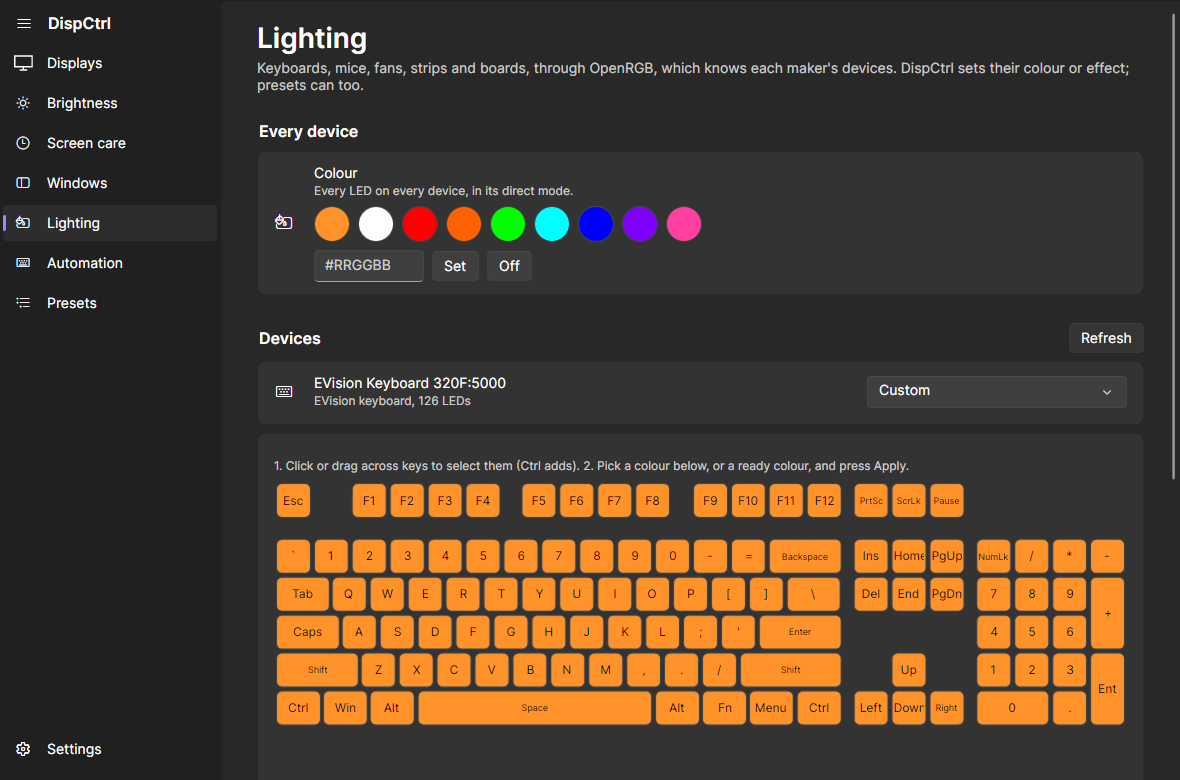
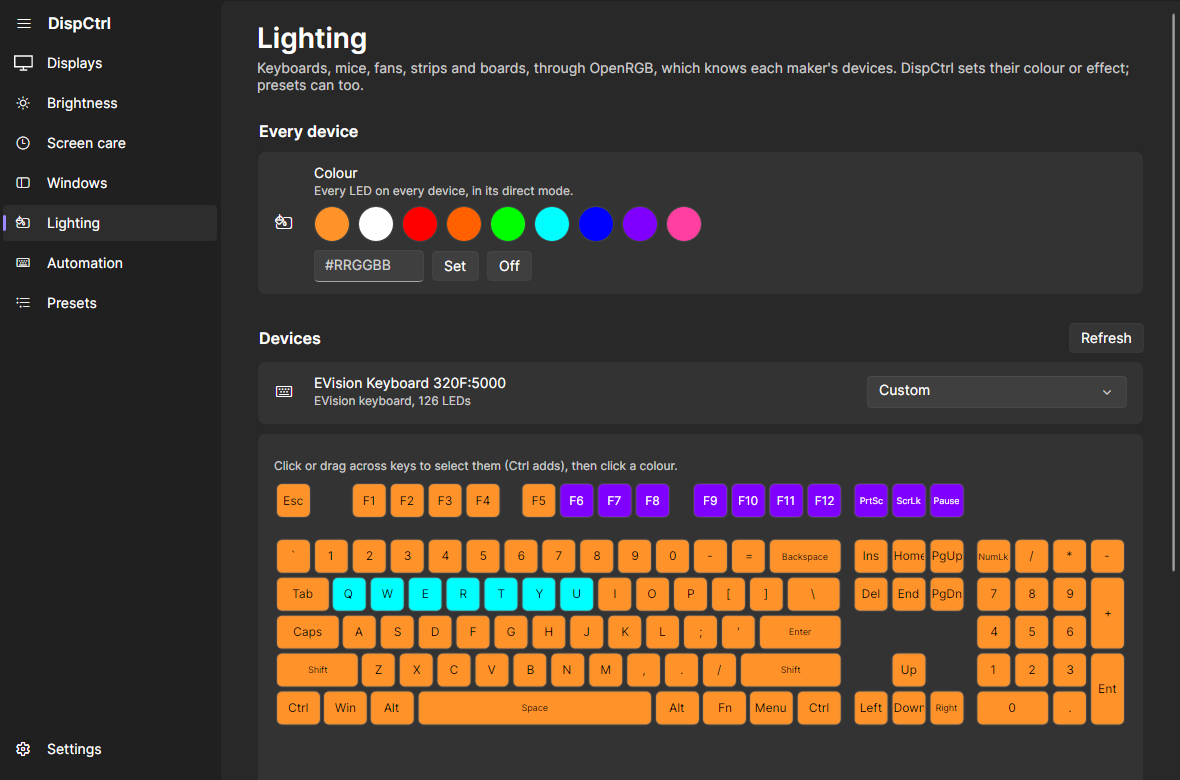
Keyboard editor: fewer buttons to find. Choosing a colour now applies it to the selected keys at once, so the Apply button and the large colour-picker button are gone; the custom picker sits beside the ready colours. Whole row is dropped, the Gradient, Rainbow and Rows buttons become one list, and s

Changed region(s): [[0.2136, 0.5846, 0.8237, 0.6769], [0.2746, 0.7385, 0.5186, 0.8], [0.9763, 0.6154, 1.0, 0.7077]]

diff --git a/src/DispCtrl.Linux.Gui/Views/Pages/KeyboardEditor.cs b/src/DispCtrl.Linux.Gui/Views/Pages/KeyboardEditor.cs
@@ -44,7 +44,7 @@ public sealed class KeyboardEditor : StackPanel
     private static readonly IBrush Selected = Brushes.DodgerBlue;
     private static readonly IBrush Unselected = new SolidColorBrush(Color.FromArgb(60, 128, 128, 128));
     private static readonly Task<bool> AnimationsOn = Task.Run(DesktopAnimates);
-    private bool _dragging, _sending, _animate;
+    private bool _dragging, _sending, _animate, _settingPicker;
     private int _hover = -1;
     private int _lastHit = -1;
 
@@ -94,9 +94,7 @@ public sealed class KeyboardEditor : StackPanel
         // Scaled to the card's width, never scrolled: a clipped numpad hid keys.
         Children.Add(new Viewbox { Stretch = Stretch.Uniform, StretchDirection = StretchDirection.DownOnly, HorizontalAlignment = HorizontalAlignment.Left, Child = _canvas });
 
-        AutomationProperties.SetName(_picker, "Key colour");
-        var apply = Button("Apply", "Colour the selected keys", async () => await Send(_selected.ToDictionary(l => l, _ => Picked())));
-        apply.Classes.Add("accent");
+        AutomationProperties.SetName(_picker, "Custom colour");
         var swatches = new WrapPanel { VerticalAlignment = VerticalAlignment.Center };
         foreach (var (name, hex) in new[] { ("White", "#FFFFFF"), ("Red", "#FF0000"), ("Orange", "#FF6000"), ("Yellow", "#FFE000"), ("Green", "#00FF00"),
                      ("Cyan", "#00FFFF"), ("Blue", "#0000FF"), ("Purple", "#8000FF"), ("Pink", "#FF40A0"), ("Off", "#000000") })
@@ -110,45 +108,53 @@ public sealed class KeyboardEditor : StackPanel
             AutomationProperties.SetName(dot, $"Colour selected keys {name}");
             dot.Click += async (_, _) =>
             {
+                _settingPicker = true;
                 _picker.Color = Color.Parse(hex);
+                _settingPicker = false;
                 await Send(_selected.ToDictionary(l => l, _ => Picked()));
             };
             swatches.Children.Add(dot);
         }
+        // The custom colour applies as it is chosen, so there is no Apply button to find.
+        _picker.ColorChanged += async (_, _) =>
+        {
+            if (!_settingPicker && _selected.Count > 0) await Send(_selected.ToDictionary(l => l, _ => Picked()));
+        };
+        swatches.Children.Add(_picker);
         var hint = new TextBlock
         {
             Classes = { "caption" }, TextWrapping = TextWrapping.Wrap,
-            Text = "1. Click or drag across keys to select them (Ctrl adds). 2. Pick a colour below, or a ready colour, and press Apply.",
+            Text = "Click or drag across keys to select them (Ctrl adds), then click a colour.",
+        };
+        var effects = new ComboBox { PlaceholderText = "Fill the whole keyboard…", MinWidth = 220, Margin = new Thickness(0, 0, 8, 4) };
+        AutomationProperties.SetName(effects, "Fill the whole keyboard");
+        effects.ItemsSource = new[] { "Gradient", "Rainbow", "Rows" };
+        effects.SelectionChanged += async (_, _) =>
+        {
+            var which = effects.SelectedItem as string;
+            effects.SelectedItem = null;
+            if (which == "Gradient") await Preset((x, _) => Shade(Picked(), x * 120));
+            else if (which == "Rainbow") await Preset((x, _) => Hue(x * 330, 1, 1));
+            else if (which == "Rows") await Preset((_, y) => Hue(y * 55, 1, 1));
         };
         var selection = new WrapPanel
         {
             Children =
             {
-                _picker, apply,
                 Button("Select all", "Select every key", () => Select(_geometry.Keys.Where(k => k.OnGrid).Select(k => k.Led))),
-                Button("Whole row", "Select the rows of the selected keys", WholeRow),
                 Button("Clear", "Select nothing", () => Select([])),
+                effects,
             },
         };
-        var presets = new WrapPanel
+        var more = new Expander
         {
-            Children =
-            {
-                new TextBlock { Text = "Across the keyboard:", VerticalAlignment = VerticalAlignment.Center, Margin = new Thickness(0, 0, 8, 4) },
-                Button("Gradient", "The chosen colour shading to the colour a third of the way round the wheel, left to right",
-                    async () => await Preset((x, _) => Shade(Picked(), x * 120))),
-                Button("Rainbow", "A rainbow from left to right", async () => await Preset((x, _) => Hue(x * 330, 1, 1))),
-                Button("Rows", "Each row of keys its own colour", async () => await Preset((_, y) => Hue(y * 55, 1, 1))),
-            },
+            Header = "Saved looks and colour fixes", HorizontalAlignment = HorizontalAlignment.Stretch,
+            Content = new StackPanel { Spacing = 8, Children = { Presets(), Order(), Calibrate() } },
         };
-        var saved = Presets();
         Children.Insert(0, hint);
         Children.Add(swatches);
         Children.Add(selection);
-        Children.Add(presets);
-        Children.Add(saved);
-        Children.Add(Order());
-        Children.Add(Calibrate());
+        Children.Add(more);
         Children.Add(_status);
         _ = FadeColoursAsync();
     }

diff --git a/docs/LINUX.md b/docs/LINUX.md
@@ -403,8 +403,9 @@ dispctrl-linux rgb autostart on|off
 
 A keyboard with a light for each key (`rgb` lists it as `per-key: 126 LEDs`)
 is also drawn on the Lighting page: click or drag across keys (Ctrl adds), pick
-a colour and press Apply; Select all, Whole row and the Gradient, Rainbow and
-Rows buttons colour many at once. Keys you do not name keep their colour. The
+then click a colour, which applies at once; Select all and the "Fill the whole
+keyboard" list (Gradient, Rainbow, Rows) colour many at once. Saved colour sets
+and the colour-order fix sit under "Saved looks and colour fixes". Keys you do not name keep their colour. The
 keys are placed from the LED names OpenRGB gives them (ANSI or ISO, full-size,
 tenkeyless, 75% or 60%) or, for keyboards that only name LEDs "Keyboard LED 12",
 from the zone matrix; LEDs that are not keys (a logo, a light bar) sit on a
